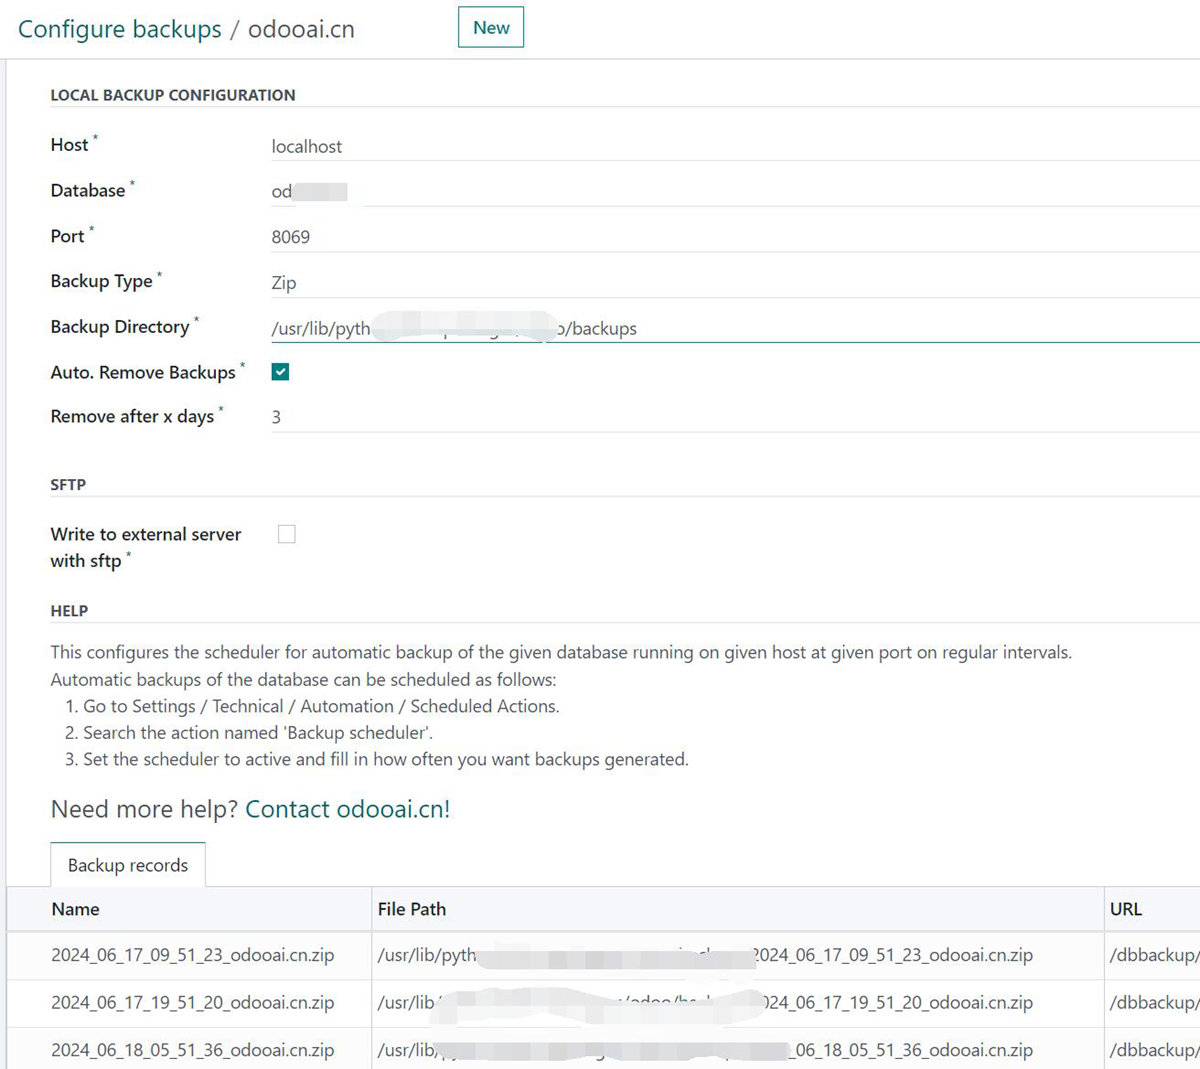
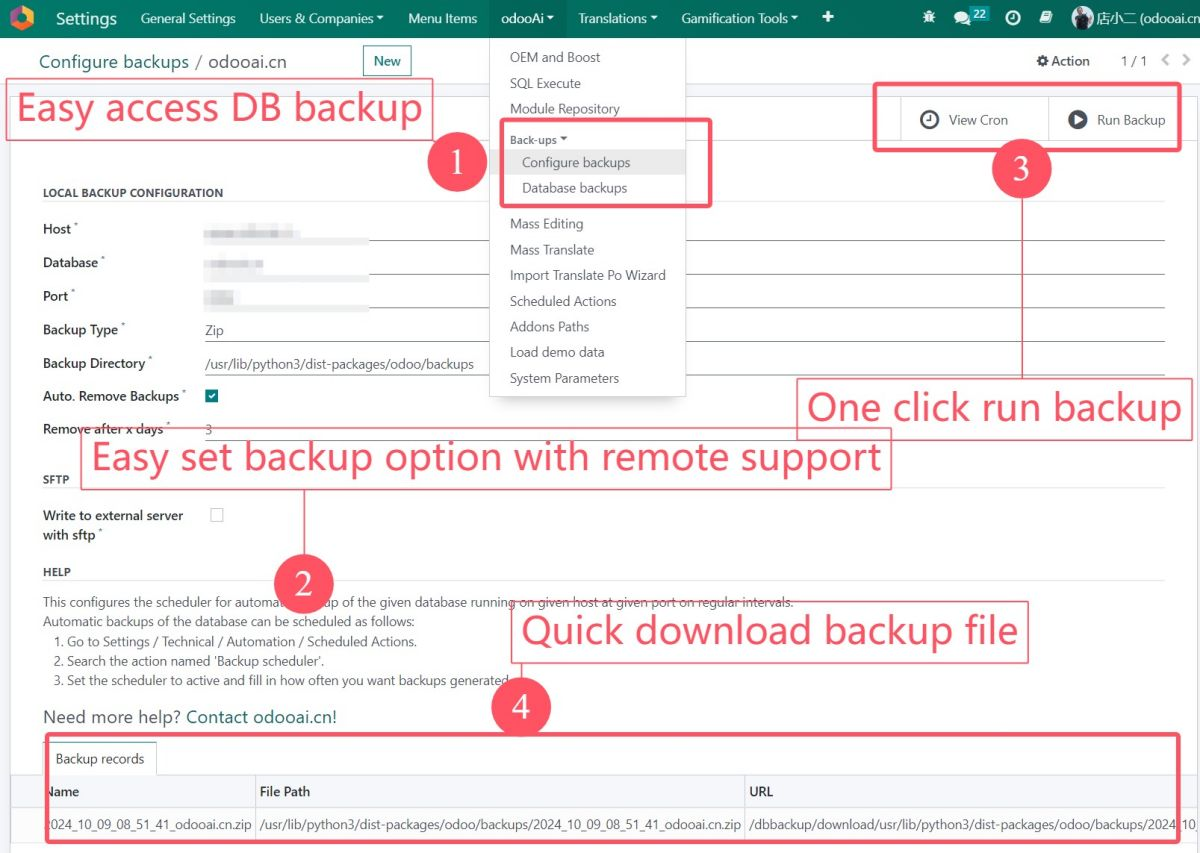
opt backup app

Changed region(s): [[0.0, 0.0, 1.0, 1.0], [0.9867, 0.3048, 1.0, 0.3353]]

diff --git a/app_auto_backup/static/description/index.html b/app_auto_backup/static/description/index.html
@@ -1,3 +1,108 @@
+<?xml version="1.0" encoding="utf-8"?>
+<!--
+# -*- coding: utf-8 -*-
+##############################################################################
+# Copyright (C) 2009~2024 odooAi.cn
+##############################################################################
+-->
+<html>
+<!-- begin title-->
+<section class="oe_container container o_cc o_cc2">
+    <h2 class="text-center bg-warning text-white pt24 pb24">Database auto backup. Easy schedule backup and Download </h2>
+    <h3 class="text-center">数据库自动备份及快速下载</h3>
+</section>
+<!-- end title-->
+
+<section class="oe_container container">
+    <div class="oe_row oe_spaced" >
+        <div class="row">
+            <div class="oe_row">
+                <h3>Latest update: v16.24.10.09</h3>
+                <div class="row">
+                    <img class="oe_demo  oe_screenshot img img-fluid"  style="max-height: 100%;" src="banner.png">
+                </div>
+                <div class="oe_span12 oe_spaced">
+                    <div class="alert alert-info" style="padding:8px;font-weight: 300; font-size: 20px;">
+                        <i class="fa fa-hand-o-right"></i><b> Key features: </b>
+                        <ul class="list-unstyled">
+                            <li>
+                                <i class="fa fa-check-square-o text-primary"></i>
+                                1. Easy schedule database backup
+                            </li>
+                            <li>
+                                <i class="fa fa-check-square-o text-primary"></i>
+                                2. Set remote backup and cron schedule
+                            </li>
+                            <li>
+                                <i class="fa fa-check-square-o text-primary"></i>
+                                3. Manual backup database in one click
+                            </li>
+                            <li>
+                                <i class="fa fa-check-square-o text-primary"></i>
+                                4. Easy download backup file or remove file for System user
+                            </li>
+                            <li>
+                                <i class="fa fa-check-square-o text-primary"></i>
+                                11. Multi-language Support. Multi-Company Support.
+                            </li>
+                            <li>
+                                <i class="fa fa-check-square-o text-primary"></i>
+                                12. Support Odoo 18,17,16,15,14,13,12, Enterprise and Community and odoo.sh Edition.
+                            </li>
+                            <li>
+                                <i class="fa fa-check-square-o text-primary"></i>
+                                13. Full Open Source.
+                            </li>
+                        </ul>
+                    </div>
+                </div>
+            </div>
+        </div>
+    </div>
+</section>
+
+<!-- quick demo-->
+<section class="oe_container container">
+    <div class="oe_row oe_spaced">
+        <h2 class="bg-warning text-center pt8 pb8 mt16 mb16">1. Easy schedule database backup</h2>
+        <h4 class="oe_slogan">快速按日程自动备份，方便的直接下载 </h4>
+        <div class="oe_demo  oe_screenshot img img-fluid">
+            <img  src="demo1.jpg"/>
+        </div>
+    </div>
+</section>
+
+<section class="oe_container container">
+    <div class="oe_row oe_spaced">
+        <h2 class="bg-warning text-center pt8 pb8 mt16 mb16">2. Set remote backup and cron schedule</h2>
+        <h4 class="oe_slogan">支持远程备份 </h4>
+        <div class="oe_demo  oe_screenshot img img-fluid">
+            <img  src="demo2.jpg"/>
+        </div>
+    </div>
+</section>
+
+<section class="oe_container container">
+    <div class="oe_row oe_spaced">
+        <h2 class="bg-warning text-center pt8 pb8 mt16 mb16">3. Manual backup database in one click</h2>
+        <h4 class="oe_slogan">一键手动备份 </h4>
+        <div class="oe_demo  oe_screenshot img img-fluid">
+            <img  src="demo3.jpg"/>
+        </div>
+    </div>
+</section>
+
+<section class="oe_container container">
+    <div class="oe_row oe_spaced">
+        <h2 class="bg-warning text-center pt8 pb8 mt16 mb16">4. Easy download backup file or remove file for System user</h2>
+        <h4 class="oe_slogan">系统用户可以直接下载所有数据库备份文件，进行备份管理</h4>
+        <div class="oe_demo  oe_screenshot img img-fluid">
+            <img  src="demo4.jpg"/>
+        </div>
+    </div>
+</section>
+
+<!-- end quick demo-->
 <section class="oe_container container">
     <div class="oe_row oe_spaced">
         <div class="row">
@@ -12,7 +117,7 @@
         </div>
 	<div class="oe_span6">
             <p class="oe_mt32">
-		Keep your Odoo data safe with this module. Take automated back-ups, remove them automatically 
+		Keep your Odoo data safe with this module. Take automated back-ups, remove them automatically
 		and even write them to an external server through an encrypted tunnel.
 		You can even specify how long local backups and external backups should be kept, automatically!
             </p>
@@ -94,3 +199,69 @@
         </div>
     </div>
 </section>
+
+<!-- begin free-->
+<!-- end free-->
+
+<!-- begin howto-->
+<section class="oe_container container s_text_block o_colored_level pt16 pb16">
+    <h2 class="text-center bg-info text-white pt16 pb16">- How to setup and use -</h2>
+    <h3>This app need no extra module. The price already included</h3>
+</section>
+<section class="oe_container container">
+    <div class="oe_row oe_spaced">
+        <h4 class="pt16">
+            1. Buy and Install
+        </h4>
+        <h4 class="pt16">
+            2. Read the app description for user guide
+        </h4>
+        <h4 class="pt16">
+            3. Enjoy and easy use
+        </h4>
+        <div class="row">
+            <div class="oe_demo oe_screenshot img img-fluid">
+                <img src="banner.png">
+            </div>
+        </div>
+        <h4 class="pt16">4. More information in our FAQ</h4>
+        <div class="row">
+            https://www.odooai.cn/faq
+        </div>
+    </div>
+</section>
+<!-- end howto-->
+
+<!-- begin upsell-->
+<!-- end upsell-->
+
+<!-- begin support-->
+<section class="container oe_dark">
+    <div class="oe_row oe_spaced text-center">
+        <div class="row">
+            <h2 class="oe_slogan">Technical Help & Support</h2>
+        </div>
+        <div class="col-md-12 pad0">
+            <div class="oe_mt16">
+                <p><h4 class="pt16">
+                For any type of technical help & support requests, Feel free to contact us</h4></p>
+                <a style="background: #002e5a  none repeat scroll 0% 0%; color: rgb(255, 255, 255);position: relative; overflow: hidden;"
+                   class="btn btn-warning btn-lg" rel="nofollow" href="mailto:odoo@china.com"><span
+                        style="height: 354px; width: 354px; top: -147.433px; left: -6.93335px;" class="o_ripple"></span>
+                    <i class="fa fa-envelope"></i> odoo@china.com</a>
+                <p><h4 class="pt16">
+                Via QQ: 300883 (App user would not get QQ or any other IM support. Only for odoo project customize.)</h4></p>
+                <a style="background: #002e5a  none repeat scroll 0% 0%; color: rgb(255, 255, 255);position: relative; overflow: hidden;"
+                   class="btn btn-warning btn-lg" rel="nofollow" href="mailto:300883@qq.com"><span
+                        style="height: 354px; width: 354px; top: -147.433px; left: -6.93335px;" class="o_ripple"></span>
+                    <i class="fa fa-envelope"></i> 300883@qq.com</a>
+            </div>
+            <div class="oe_mt16">
+                <h4 class="pt16">Visit our website for more support.</h4>
+                <h4 class="pt16">https://www.odooai.cn</h4>
+            </div>
+        </div>
+    </div>
+</section>
+<!-- end support-->
+</html>

diff --git a/app_auto_backup/__manifest__.py b/app_auto_backup/__manifest__.py
@@ -1,14 +1,23 @@
 # -*- coding: utf-8 -*-
 #    'author': "Yenthe Van Ginneken",
 #    'website': "http://www.odoo.yenthevg.com",
+#    'author': "guohuadeng@hotmail.com",
+#    'website': "https://www.odooai.cn",
 
 {
-    'name': "Database auto backup,数据库自动备份",
+    'name': "Database auto backup and Download,数据库自动备份",
     'version': '16.24.10.09',
 
-    'summary': 'Automated backups, optimized from auto_backup of Yenthe Van Ginneken',
+    'summary': 'Automated and odoo database backups. easy download and manage database file. optimized from auto_backup of oca Yenthe Van Ginneken',
 
     'description': """
+    1. Easy schedule database backup
+    2. Set remote backup and cron schedule
+    3. Manual backup database in one click
+    4. Easy download backup file or remove file for System user
+    11. Multi-language Support. Multi-Company Support.
+    12. Support Odoo 18,17,16,15,14,13,12, Enterprise and Community and odoo.sh Edition.
+    13. Full Open Source.
         The Database Auto-Backup module enables the user to make configurations for the automatic backup of the database. 
         Backups can be taken on the local system or on a remote server, through SFTP.
         You only have to specify the hostname, port, backup location and databasename (all will be pre-filled by default with correct data.

diff --git a/app_auto_backup/controllers/main.py b/app_auto_backup/controllers/main.py
@@ -15,6 +15,8 @@ class AppAutoBackup(http.Controller):
     @http.route("/dbbackup/download/<path:file_path>", type="http", auth="user")
     def download_backupfile(self, file_path, **kw):
         _logger.warning('download_backupfile: %s', file_path)
+        if not self.env.user.has_group('base.group_system'):
+            raise UserError(_('File not found for user.'))
         if os.path.exists(file_path):
             try:
                 with open(file_path, 'rb') as file:

diff --git a/app_common/__manifest__.py b/app_common/__manifest__.py
@@ -39,7 +39,7 @@
 
 {
     'name': "odooAi Common Util and Tools,欧度智能基础核心优化",
-    'version': '16.24.08.26',
+    'version': '16.24.10.09',
     'author': 'odooai.cn',
     'category': 'Extra tools',
     'website': 'https://www.odooai.cn',

diff --git a/app_common/models/app_import.py b/app_common/models/app_import.py
@@ -3,8 +3,6 @@
 import os.path
 
 from odoo import api, fields, models, modules, tools, SUPERUSER_ID, _
-from odoo.tests import common
-ADMIN_USER_ID = common.ADMIN_USER_ID
 
 def app_quick_import(env, content_path, sep=None, context={}):
     if not sep:
